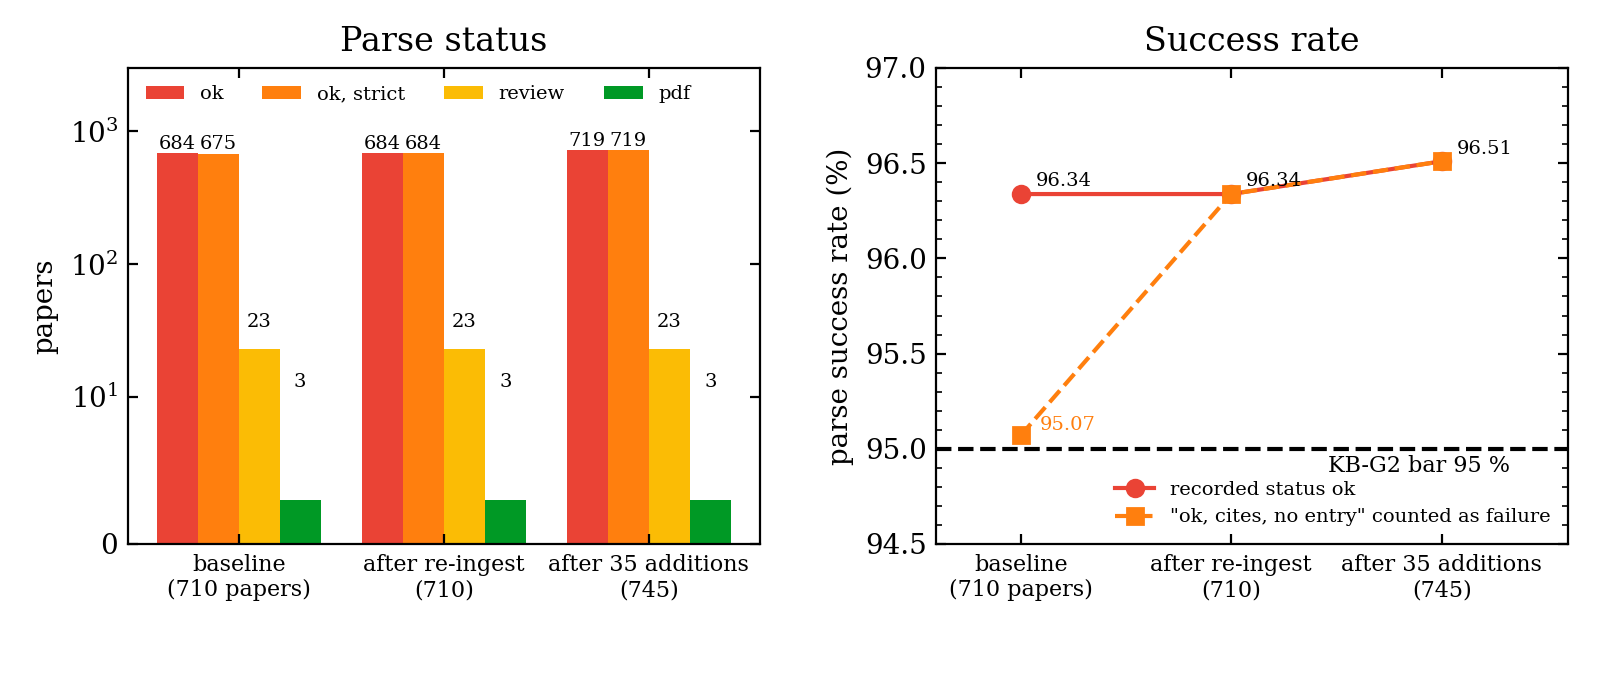
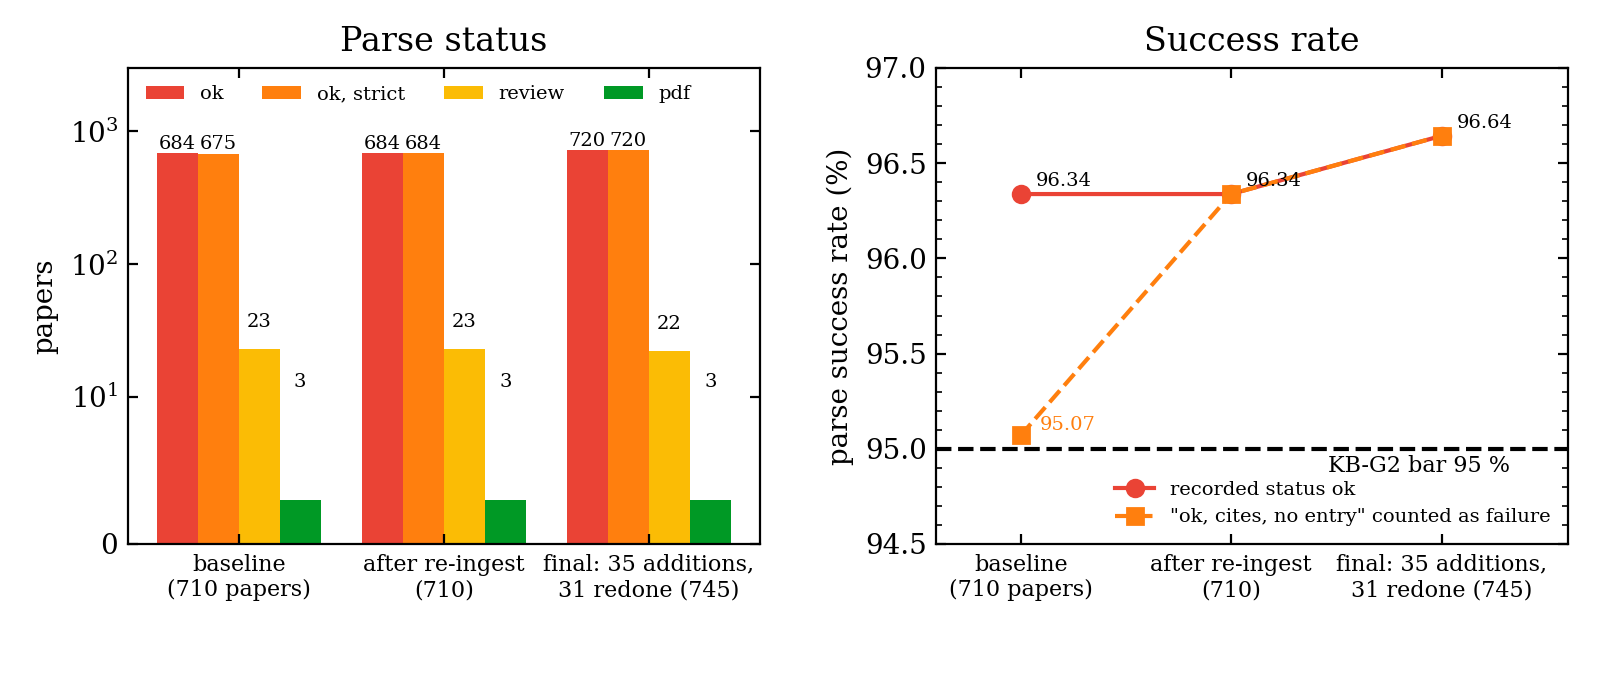
ingest3: outcome P11 (final QA 720/745 ok, golden hits unchanged); figure legend names the runs read

diff --git a/tracks/kb/ingest3/scripts/fig_before_after.py b/tracks/kb/ingest3/scripts/fig_before_after.py
@@ -71,8 +71,10 @@ def main():
     eb = [b20[p]["bib_entries"] for p in order]
     ea = [f20[p]["bib_entries"] for p in order]
     ck = [dry.get(p, {}).get("cited_keys") or 0 for p in order]
-    ax1.barh(y + h / 2, eb, height=h, color=FS.PAL["blue"], label="before (run -212037)")
-    ax1.barh(y - h / 2, ea, height=h, color=FS.PAL["red"], label="after (run -215402)")
+    run_b = os.path.basename(os.path.dirname(os.path.abspath(a.before)))
+    run_f = os.path.basename(os.path.dirname(os.path.abspath(a.final)))
+    ax1.barh(y + h / 2, eb, height=h, color=FS.PAL["blue"], label=f"before ({run_b[-15:]})")
+    ax1.barh(y - h / 2, ea, height=h, color=FS.PAL["red"], label=f"after ({run_f[-15:]})")
     ax1.plot(ck, y - h / 2, ls="none", marker="|", ms=9, mew=1.5, color="k", label="distinct cited keys")
     ax1.set_xscale("symlog", linthresh=1)
     ax1.set_xlim(0, 300)
